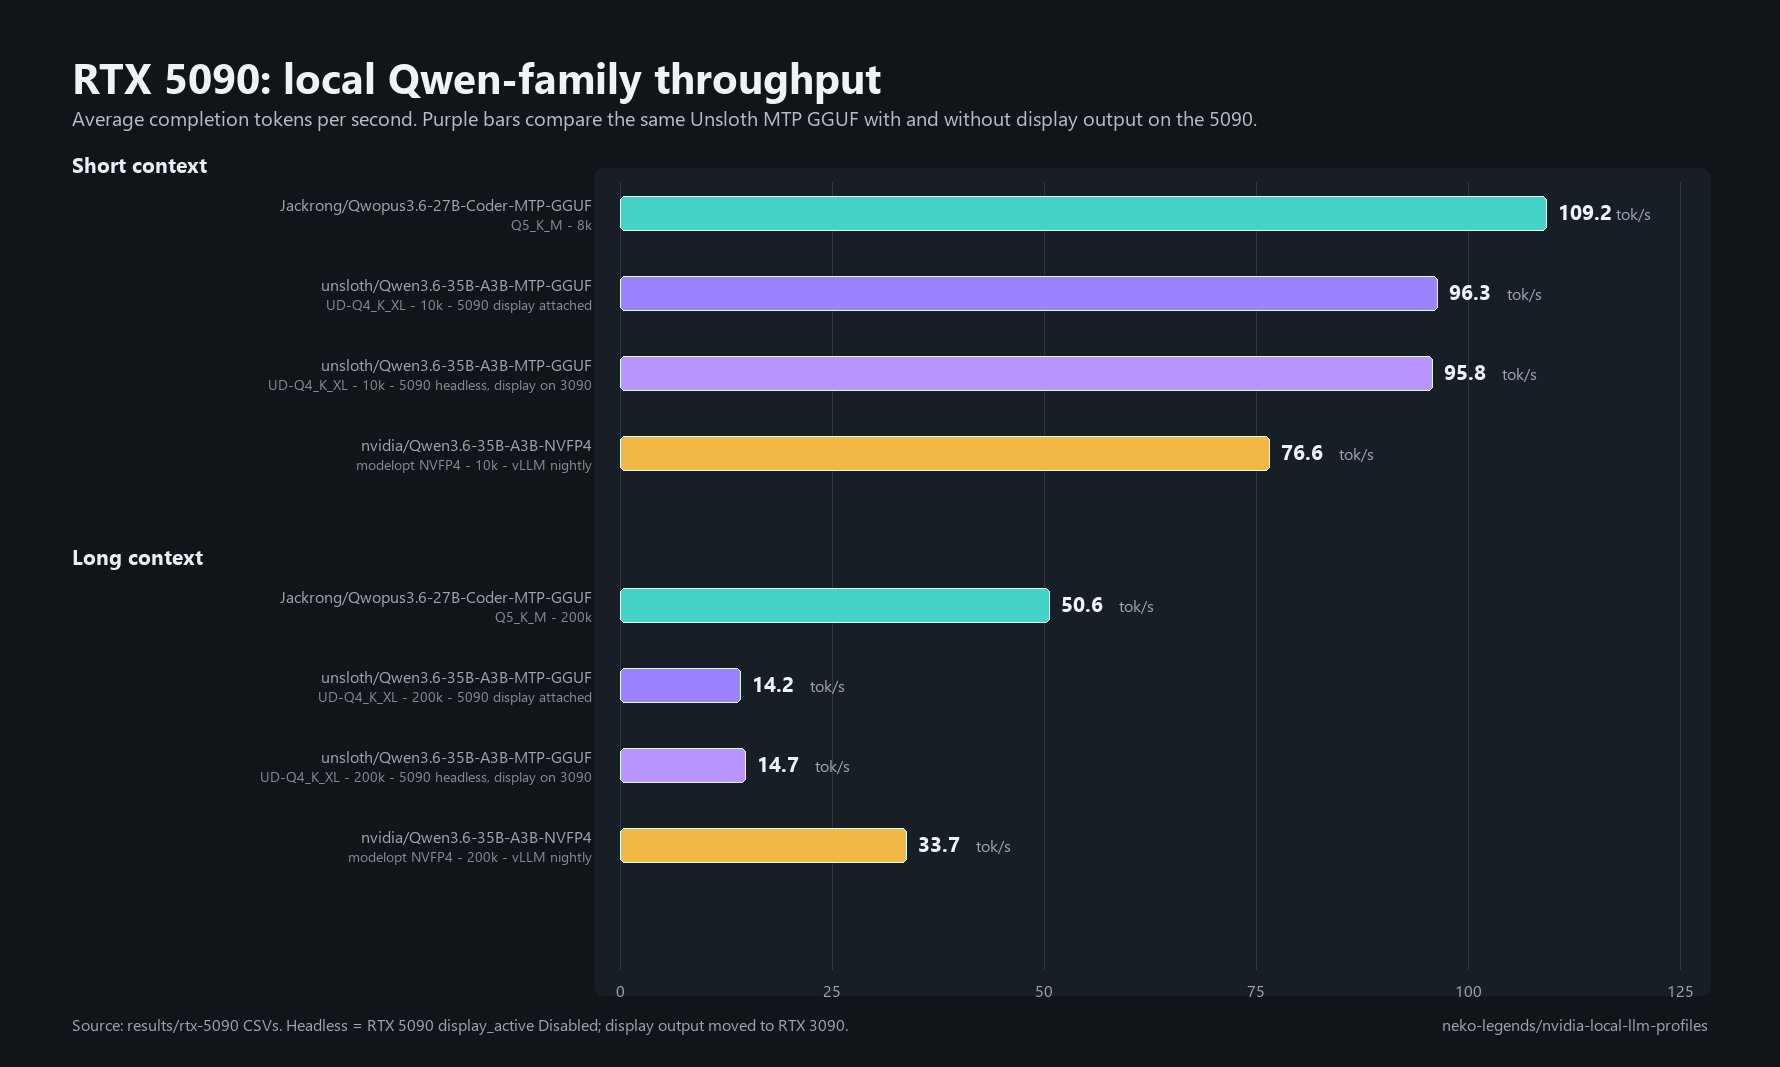
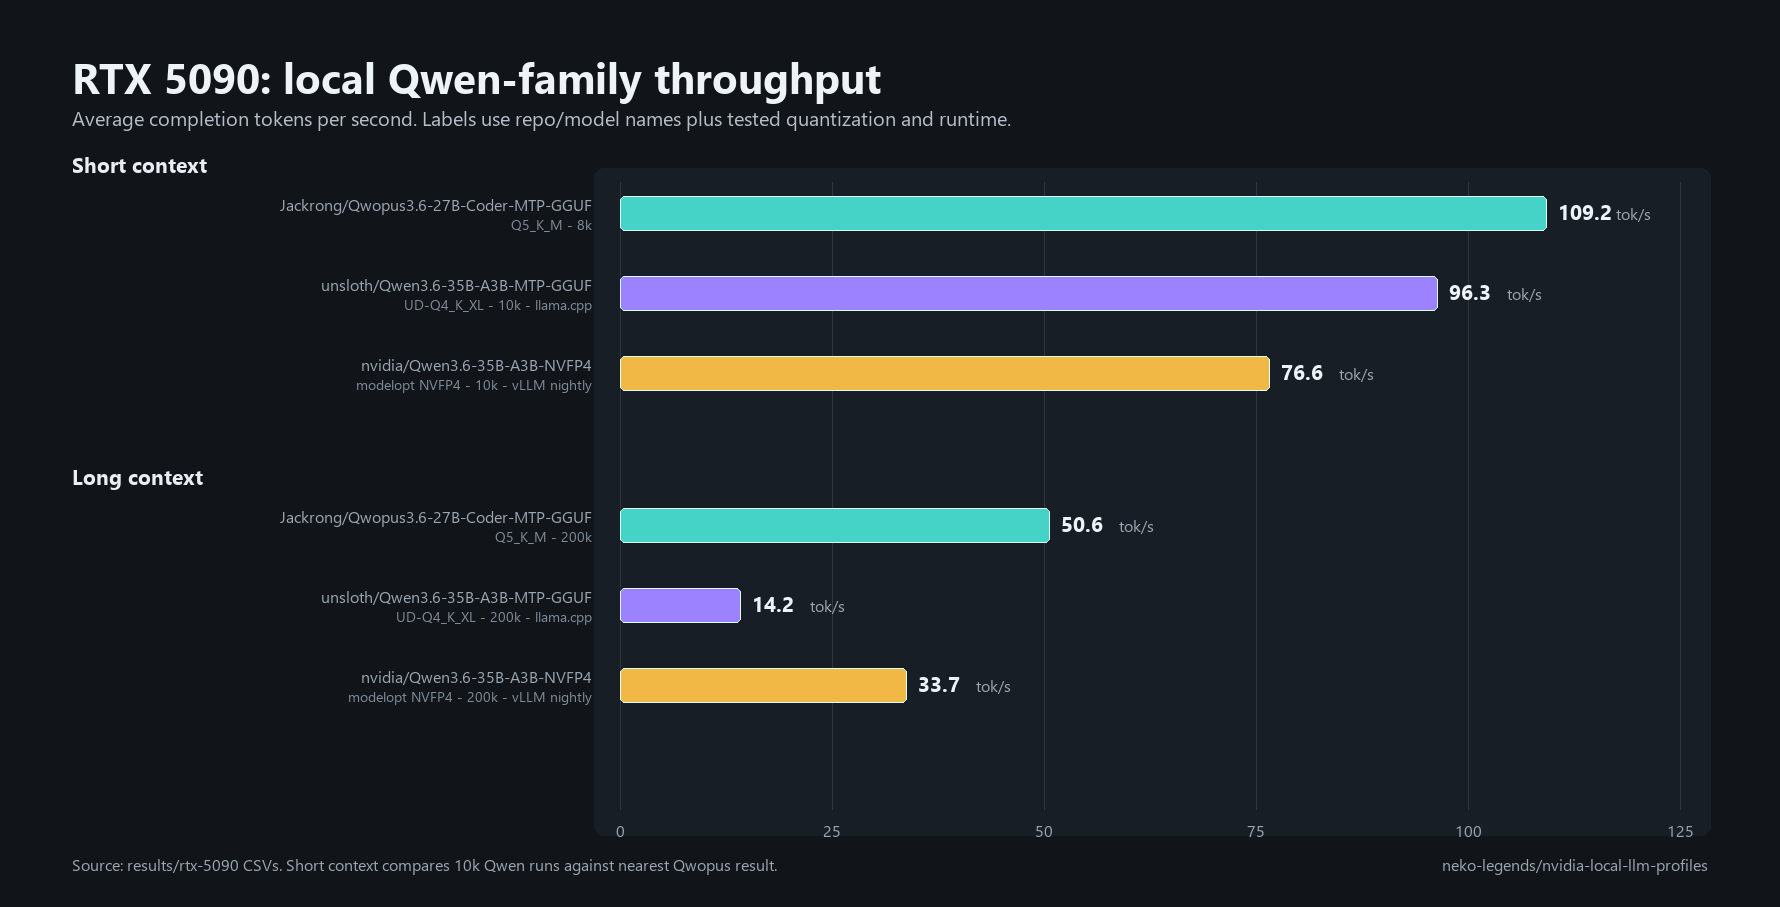
Keep headless rerun out of comparison chart

diff --git a/scripts/benchmarks/render-qwen35-moe-comparison-chart.py b/scripts/benchmarks/render-qwen35-moe-comparison-chart.py
@@ -81,15 +81,13 @@ def svg_text(x: float, y: float, text: str, **attrs: str) -> str:
 def load_rows() -> tuple[list[dict[str, object]], int]:
     qwopus = latest_by_target(QWOPUS_GLOB)
     moe = latest_by_target(MOE_GLOB)
-    gguf_display = earliest_by_target(GGUF_GLOB)
-    gguf_headless = latest_by_target(GGUF_GLOB)
+    gguf = earliest_by_target(GGUF_GLOB)
 
     rows: list[dict[str, object]] = []
     for label, target in (("Short context", 10000), ("Long context", 200000)):
         q = nearest(qwopus, 8192 if target == 10000 else target)
         m = nearest(moe, target)
-        gd = nearest(gguf_display, target)
-        gh = nearest(gguf_headless, target)
+        g = nearest(gguf, target)
         if q:
             rows.append(
                 {
@@ -102,28 +100,16 @@ def load_rows() -> tuple[list[dict[str, object]], int]:
                     "color": "#46d3c7",
                 }
             )
-        if gd:
+        if g:
             rows.append(
                 {
                     "group": label,
                     "model": "unsloth/Qwen3.6-35B-A3B-MTP-GGUF",
-                    "detail": f"UD-Q4_K_XL - {context_label(gd[0])} - 5090 display attached",
-                    "target": gd[0],
-                    "tps": avg_tps(gd[1]),
-                    "path": gd[1].name,
+                    "detail": f"UD-Q4_K_XL - {context_label(g[0])} - llama.cpp",
+                    "target": g[0],
+                    "tps": avg_tps(g[1]),
+                    "path": g[1].name,
                     "color": "#9d82ff",
-                }
-            )
-        if gh and (not gd or gh[1] != gd[1]):
-            rows.append(
-                {
-                    "group": label,
-                    "model": "unsloth/Qwen3.6-35B-A3B-MTP-GGUF",
-                    "detail": f"UD-Q4_K_XL - {context_label(gh[0])} - 5090 headless, display on 3090",
-                    "target": gh[0],
-                    "tps": avg_tps(gh[1]),
-                    "path": gh[1].name,
-                    "color": "#b993ff",
                 }
             )
         if m:
@@ -187,7 +173,7 @@ def render_svg(rows: list[dict[str, object]], scale_max: int) -> Path:
     ]
 
     parts.append(svg_text(72, 82, "RTX 5090: local Qwen-family throughput", class_="title"))
-    parts.append(svg_text(72, 122, "Average completion tokens per second. Purple bars compare the same Unsloth MTP GGUF with and without display output on the 5090.", class_="subtitle"))
+    parts.append(svg_text(72, 122, "Average completion tokens per second. Labels use repo/model names plus tested quantization and runtime.", class_="subtitle"))
 
     for tick in range(0, scale_max + 1, 25):
         x = left + (tick / scale_max) * plot_w
@@ -210,7 +196,7 @@ def render_svg(rows: list[dict[str, object]], scale_max: int) -> Path:
         parts.append(svg_text(left + bar_w + 12, ypos + 2, f"{value:.1f}", class_="value"))
         parts.append(svg_text(left + bar_w + 70, ypos + 2, "tok/s", class_="small"))
 
-    footnote = "Source: results/rtx-5090 CSVs. Headless = RTX 5090 display_active Disabled; display output moved to RTX 3090."
+    footnote = "Source: results/rtx-5090 CSVs. Short context compares 10k Qwen runs against nearest Qwopus result."
     parts.append(svg_text(72, height - 34, footnote, class_="small"))
     parts.append(svg_text(width - 72, height - 34, "neko-legends/nvidia-local-llm-profiles", class_="small", text_anchor="end"))
     parts.append("</svg>")
@@ -274,7 +260,7 @@ def render_png(rows: list[dict[str, object]], scale_max: int) -> Path:
     draw.text((72, 48), "RTX 5090: local Qwen-family throughput", fill="#edf3f7", font=title_font)
     draw.text(
         (72, 104),
-        "Average completion tokens per second. Purple bars compare the same Unsloth MTP GGUF with and without display output on the 5090.",
+        "Average completion tokens per second. Labels use repo/model names plus tested quantization and runtime.",
         fill="#b5bec8",
         font=subtitle_font,
     )
@@ -311,7 +297,7 @@ def render_png(rows: list[dict[str, object]], scale_max: int) -> Path:
         draw.text((left + bar_w + 12, ypos - 23), f"{value:.1f}", fill="#edf3f7", font=value_font)
         draw.text((left + bar_w + 70, ypos - 18), "tok/s", fill="#9aa5b1", font=small_font)
 
-    footnote = "Source: results/rtx-5090 CSVs. Headless = RTX 5090 display_active Disabled; display output moved to RTX 3090."
+    footnote = "Source: results/rtx-5090 CSVs. Short context compares 10k Qwen runs against nearest Qwopus result."
     draw.text((72, height - 54), footnote, fill="#9aa5b1", font=small_font)
     repo = "neko-legends/nvidia-local-llm-profiles"
     bbox = draw.textbbox((0, 0), repo, font=small_font)

diff --git a/results/rtx-5090/README.md b/results/rtx-5090/README.md
@@ -71,21 +71,20 @@ Two-point smoke benchmark only, one measured run per context.
 
 Two-point smoke benchmark only, one measured run per context.
 
-| Condition | Context target | Prompt tokens | tok/s | Power | Temp |
-| --- | ---: | ---: | ---: | ---: | ---: |
-| 5090 display attached | 10k | 8,907 | 96.3 | 174W | 46C |
-| 5090 display attached | 200k | 174,590 | 14.2 | 222W | 57C |
-| 5090 headless, display on 3090 | 10k | 8,907 | 95.8 | 170W | 46C |
-| 5090 headless, display on 3090 | 200k | 174,590 | 14.7 | 213W | 55C |
+| Context target | Prompt tokens | tok/s | Power | Temp |
+| ---: | ---: | ---: | ---: | ---: |
+| 10k | 8,907 | 96.3 | 174W | 46C |
+| 200k | 174,590 | 14.2 | 222W | 57C |
 
 - **Stack:** llama.cpp server -> OpenAI-compatible endpoint at 127.0.0.1:39185
 - **Model:** `unsloth/Qwen3.6-35B-A3B-MTP-GGUF`
 - **File:** `Qwen3.6-35B-A3B-UD-Q4_K_XL.gguf`
 - **Flags:** `--gpu-layers all --ctx-size 200000 --cache-type-k q4_0 --cache-type-v q4_0 --flash-attn on --reasoning off --spec-type draft-mtp --spec-draft-n-max 2`
 
-Display-output check: moving desktop display duties from the RTX 5090 to the RTX
-3090 did not materially change Unsloth GGUF throughput. It did reduce observed
-power and temperature on the 200k run.
+Display-output check: a follow-up run with desktop display duties moved from the
+RTX 5090 to the RTX 3090 landed at 95.8 tok/s for 10k and 14.7 tok/s for 200k,
+so the chart leaves the headless condition out and keeps focus on model/runtime
+differences.
 
 ---
 

diff --git a/README.md b/README.md
@@ -161,19 +161,16 @@ Two-point smoke benchmarks only, one measured run per context.
 | --- | ---: | ---: | ---: | ---: | ---: |
 | nvidia/Qwen3.6-35B-A3B-NVFP4 | 10k target | 8,905 | 76.6 tok/s | 172W | 47C |
 | nvidia/Qwen3.6-35B-A3B-NVFP4 | 200k target | 174,588 | 33.7 tok/s | 228W | 55C |
-| unsloth/Qwen3.6-35B-A3B-MTP-GGUF UD-Q4_K_XL, 5090 display attached | 10k target | 8,907 | 96.3 tok/s | 174W | 46C |
-| unsloth/Qwen3.6-35B-A3B-MTP-GGUF UD-Q4_K_XL, 5090 display attached | 200k target | 174,590 | 14.2 tok/s | 222W | 57C |
-| unsloth/Qwen3.6-35B-A3B-MTP-GGUF UD-Q4_K_XL, 5090 headless / display on 3090 | 10k target | 8,907 | 95.8 tok/s | 170W | 46C |
-| unsloth/Qwen3.6-35B-A3B-MTP-GGUF UD-Q4_K_XL, 5090 headless / display on 3090 | 200k target | 174,590 | 14.7 tok/s | 213W | 55C |
+| unsloth/Qwen3.6-35B-A3B-MTP-GGUF UD-Q4_K_XL | 10k target | 8,907 | 96.3 tok/s | 174W | 46C |
+| unsloth/Qwen3.6-35B-A3B-MTP-GGUF UD-Q4_K_XL | 200k target | 174,590 | 14.2 tok/s | 222W | 57C |
 
 The GGUF profile was fast at short context, but this 200k-profile run was slow
 at long context. The NVIDIA NVFP4 vLLM profile loaded with a 200k max context and
 used roughly 30GB VRAM while idle.
 
-Moving display output from the RTX 5090 to the RTX 3090 did not materially
-change Unsloth GGUF throughput on this run: short context was effectively flat,
-and the 200k run moved from 14.2 tok/s to 14.7 tok/s. The headless 5090 run did
-draw less power and finished a little cooler.
+A follow-up run with display output moved from the RTX 5090 to the RTX 3090 did
+not materially change Unsloth GGUF throughput: 95.8 tok/s at 10k and 14.7 tok/s
+at 200k. The headless 5090 run is kept in the CSVs, but not charted.
 
 ---
 

diff --git a/scripts/localai/qwen36-35b-a3b-mtp-gguf/qwen36-35b-a3b-mtp-ud-q4-k-xl-notes.md b/scripts/localai/qwen36-35b-a3b-mtp-gguf/qwen36-35b-a3b-mtp-ud-q4-k-xl-notes.md
@@ -26,13 +26,10 @@ speculative decoding for this GGUF family.
 
 RTX 5090 quick benchmark:
 
-| Condition | Context target | Prompt tokens | tok/s | Power | Temp |
-| --- | ---: | ---: | ---: | ---: | ---: |
-| 5090 display attached | 10k | 8,907 | 96.3 | 174W | 46C |
-| 5090 display attached | 200k | 174,590 | 14.2 | 222W | 57C |
-| 5090 headless, display on 3090 | 10k | 8,907 | 95.8 | 170W | 46C |
-| 5090 headless, display on 3090 | 200k | 174,590 | 14.7 | 213W | 55C |
+| Context target | Prompt tokens | tok/s | Power | Temp |
+| ---: | ---: | ---: | ---: | ---: |
+| 10k | 8,907 | 96.3 | 174W | 46C |
+| 200k | 174,590 | 14.2 | 222W | 57C |
 
 The headless check was run after moving display output to the RTX 3090. It did
-not materially improve throughput, but it did lower observed power and
-temperature on the 200k run.
+not materially improve throughput: 95.8 tok/s at 10k and 14.7 tok/s at 200k.